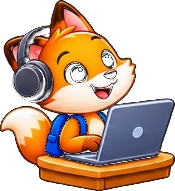
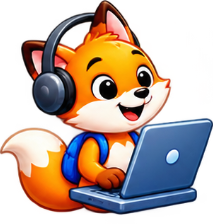
fix(mascot): replace shady pencil fox with pristine 1024x1024 asset, fix CSS syntax error, and upgrade all gestures with solid opacity

diff --git a/css/style.css b/css/style.css
@@ -996,60 +996,6 @@ body {
   color: var(--color-purple);
 }
 
-/* 3. Leaderboard Podium */
-.leaderboard-podium-wrap {
-  display: flex;
-  align-items: center;
-  justify-content: center;
-  flex: 1;
-}
-
-.podium-img {
-  width: 100%;
-  max-height: 84px;
-  object-fit: contain;
-}
-
-.asg-mini-icon {
-  width: 28px;
-  height: 28px;
-  flex-shrink: 0;
-}
-
-.asg-mini-icon img {
-  width: 100%;
-  height: 100%;
-  object-fit: contain;
-}
-
-.asg-text-stack {
-  display: flex;
-  flex-direction: column;
-}
-
-.asg-name {
-  font-family: var(--font-display);
-  font-size: 0.84rem;
-  font-weight: 700;
-  color: var(--color-dark);
-}
-
-.asg-deadline {
-  font-size: 0.7rem;
-  font-weight: 700;
-  color: #94a3b8;
-}
-
-.deadline-red {
-  color: #ef4444;
-}
-
-.asg-arrow-icon {
-  color: #94a3b8;
-  font-weight: 800;
-  font-size: 0.95rem;
-}
-
 /* Leaderboard Podium */
 .leaderboard-podium-wrap {
   display: flex;

diff --git a/index.html b/index.html
@@ -852,7 +852,7 @@
 
               <div class="game-interactive-row">
                 <div class="game-fox-thinking">
-                  <img src="assets/characters/fox_waving.png" alt="Thinking Fox" class="game-fox-img">
+                  <img src="assets/characters/fox_thinking.png" alt="Thinking Fox" class="game-fox-img">
                 </div>
 
                 <div class="game-options-trio">
@@ -926,7 +926,7 @@
                 </div>
 
                 <div class="challenge-fox-corner">
-                  <img src="assets/characters/fox_waving.png" alt="Cheering Fox" class="challenge-fox-img">
+                  <img src="assets/characters/fox_celebrating.png" alt="Cheering Fox" class="challenge-fox-img">
                 </div>
               </div>
             </div>
